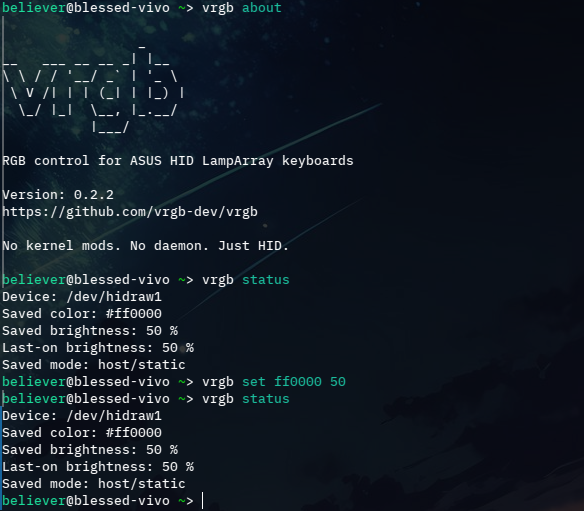
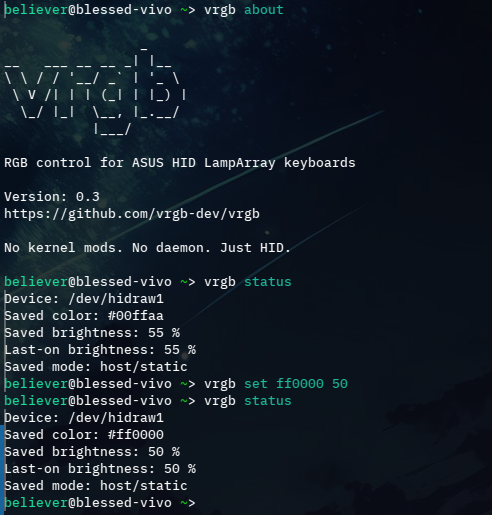
v0.3: add profile support and improve command handling
- added profile save/load/list/delete commands
- profiles stored in config.json
- profile load applies immediately to hardware
- non-HID commands no longer require device detection
- updated README and demo assets

diff --git a/README.md b/README.md
@@ -43,7 +43,7 @@ Unlike some RGB tools, VRGB does not rely on kernel patches, vendor utilities, b
        ↓
     RGB lighting
 
-Current stable release: v0.2.2
+*Current stable release: v0.3*
 
 ## Example Usage
 
@@ -56,6 +56,7 @@ Current stable release: v0.2.2
 
 -   Static RGB color control
 -   Fine brightness scaling (0–100%)
+-   Custom profiles
 -   Firmware autonomous mode toggle
 -   OEM rainbow toggle (sudo required)
 -   Debug diagnostics
@@ -123,6 +124,22 @@ Set RGB Color
 Change Brightness
 
     vrgb brightness 80
+    
+Save Profile (Save Current State)
+
+    vrgb profile save fedorablue
+    
+Load Profile
+
+    vrgb profile load fedorablue
+    
+Delete a Profile
+
+    vrgb profile delete fedorablue
+    
+List Saved Profiles
+
+    vrgb profile list
 
 Turn Lighting Off
 
@@ -217,12 +234,10 @@ Removes:
 
 ## Future Development
 
-Planned roadmap:
-
-- profile support
 - expanded ASUS hardware compatibility
 - GUI frontend
-- breathing / fade effects
+- breathing / fade effect
+- effect profiles
 
 With future updates in mind, this project will aim to continue to be as efficient and lightweight as possible.
 
@@ -230,12 +245,20 @@ With future updates in mind, this project will aim to continue to be as efficien
 
 ## Changelog
 
+v0.3
+
+-    added named profile support
+-    profile save/load/list/delete commands
+-    profile data stored in config.json
+-    profile load applies immediately to hardware
+-    non-HID commands no longer require device detection
+
 v0.2.2
 
--   Improved CLI help output
--   Installer/Uninstaller validation
--   Confirmed non-root HID access
--   Release packaging
+-   improved CLI help output
+-   installer/Uninstaller validation
+-   confirmed non-root HID access
+-   release packaging
 
 v0.2.0
 
@@ -244,7 +267,7 @@ v0.2.0
 -   persistent config
 -   installer script
 
-v0.1.0
+v0.1
 
 Initial prototype with static RGB and brightness control.
 
